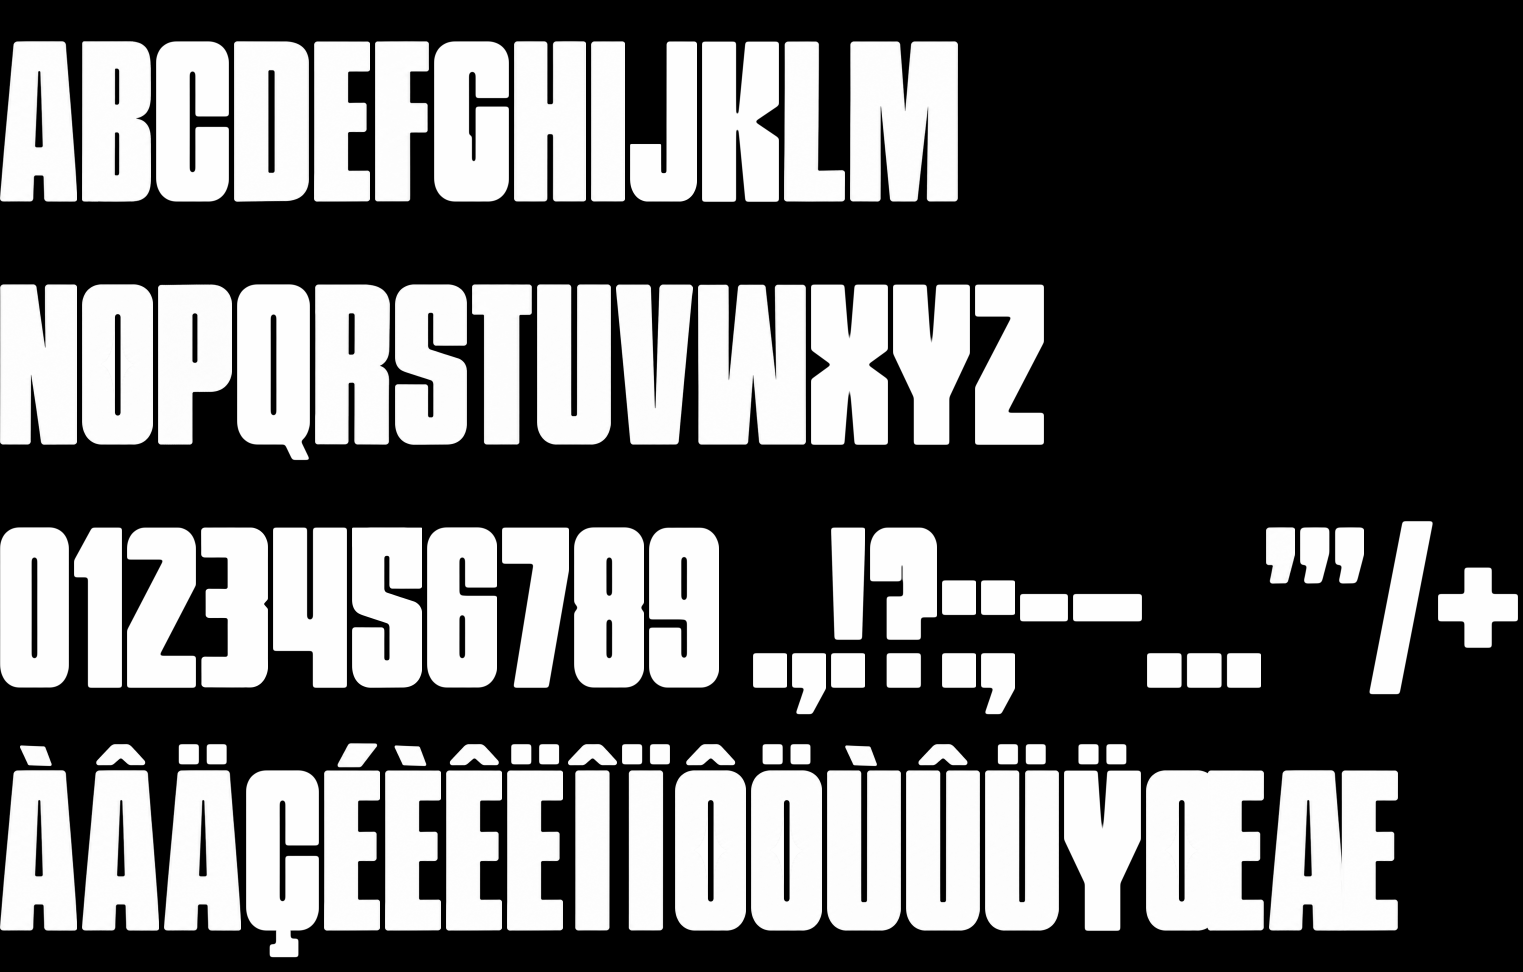
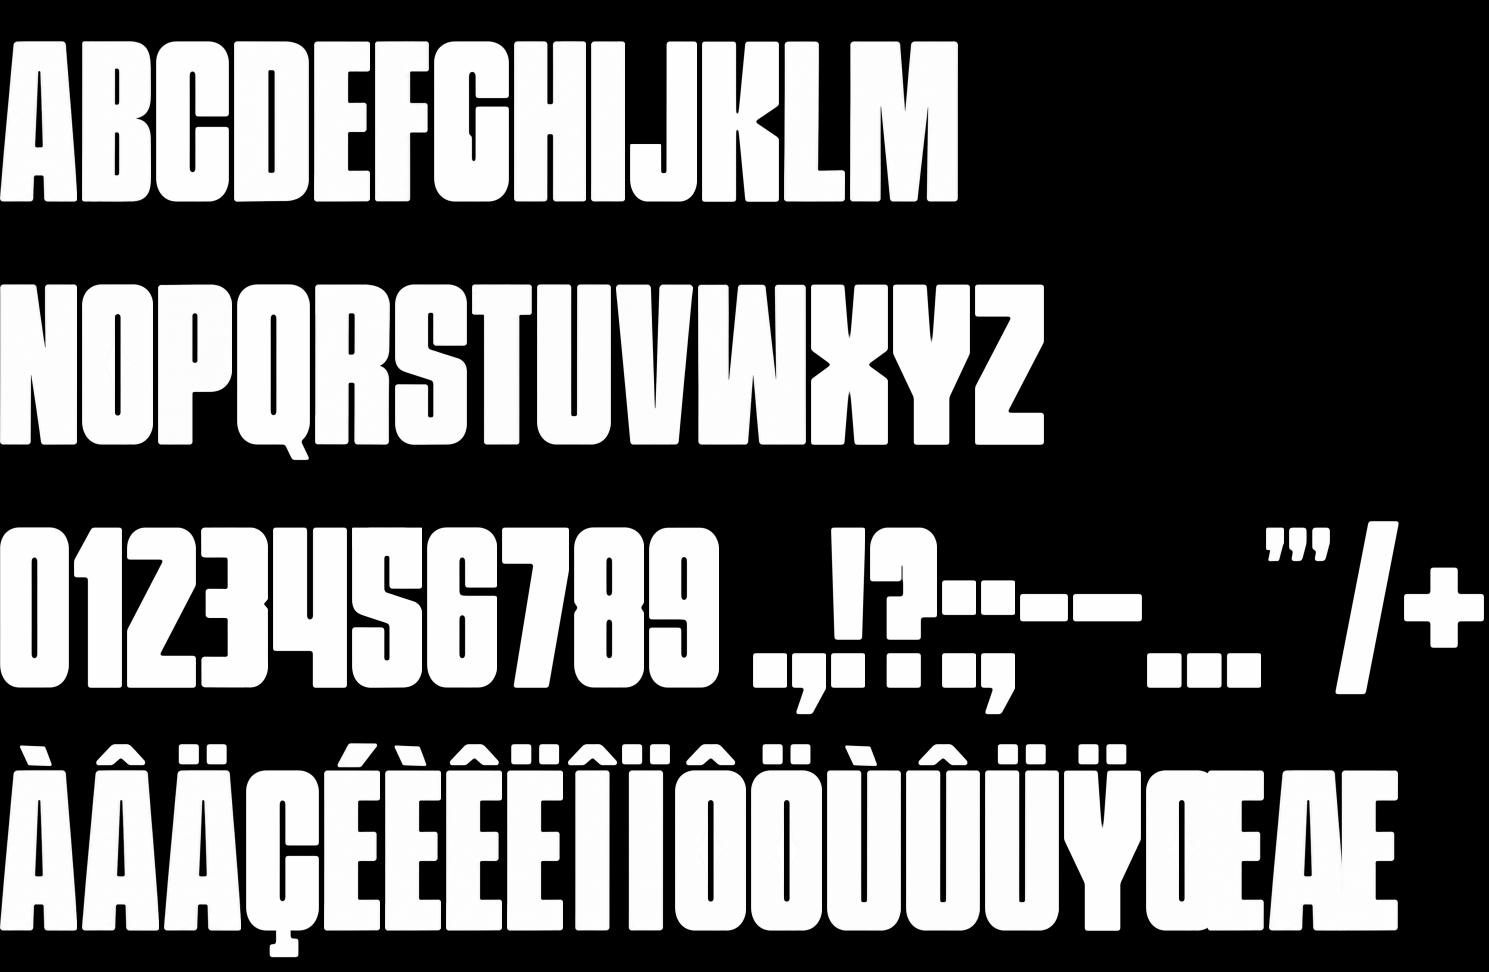
Atelier Étoile : apostrophe réduite et aérée
À sa taille d'origine, l'apostrophe serrait ses voisines (« D'OR », « C'EST »).
Elle passe à 60 %, reçoit du blanc de chaque côté, et son crénage est recalculé
d'après la forme des lettres : après un L elle se pose au-dessus du pied, au
milieu du vide laissé avec le A qui suit.

Claude-Session: https://claude.ai/code/session_01GywjEvaa8R1TER6H6G3R5p

diff --git a/miniatures/index.html b/miniatures/index.html
@@ -4,7 +4,7 @@
 <link rel="preconnect" href="https://fonts.gstatic.com" crossorigin>
 <link rel="stylesheet" href="https://fonts.googleapis.com/css2?family=Anton&family=Manrope:wght@400;500;600;700&family=JetBrains+Mono:wght@500&display=swap">
 <style>
[2 lines of base64/hex data omitted]
 /* Mise en page : un établi sombre. La scène 16:9 (la miniature) à gauche, l'établi de réglages à droite ;
    sur téléphone la scène reste collée en haut pendant qu'on règle en dessous. */
 :root {

diff --git a/miniatures/tools/build_font.py b/miniatures/tools/build_font.py
@@ -279,14 +279,17 @@ def all_glyphs():
 
 
 # ---------------------------------------------------------------- vectorisation et police
-def outline(img):
+SIDE = {"'": 16, '’': 16, '"': 16}     # blanc supplémentaire de chaque côté (px), pour que l'apostrophe respire
+
+
+def outline(img, side=0):
     """Contours de Bézier (unités de police, y vers le haut) d'une lettre en image."""
     b = cv2.GaussianBlur(img, (0, 0), 1.6) > .5
     ys, xs = np.where(b); x0 = xs.min()
     pl = potrace.Bitmap(~b).trace(  # la bibliothèque inverse : on lui donne le fond
         turdsize=30, turnpolicy=potrace.POTRACE_TURNPOLICY_MINORITY, alphamax=1.0, opticurve=True, opttolerance=.35)
     def P(p):
-        return ((p.x - x0) * UNITS + GAP / 2 * UNITS, (PAD + CAP - p.y) * UNITS)
+        return ((p.x - x0 + side) * UNITS + GAP / 2 * UNITS, (PAD + CAP - p.y) * UNITS)
     contours = []
     for c in pl:
         rec = RecordingPen(); rec.moveTo(P(c.start_point))
@@ -306,7 +309,7 @@ def outline(img):
         depth = sum(1 for r2, a2, p2 in contours if r2 is not rec and abs(a2) > abs(area) and cv2.pointPolygonTest(np.array(p2, np.float32), (float(px), float(py)), False) > 0)
         want_pos = depth % 2 == 0
         out.append((rec, (area > 0) != want_pos))
-    width = (xs.max() + 1 - x0 + GAP) * UNITS
+    width = (xs.max() + 1 - x0 + GAP + 2 * side) * UNITS
     return out, width
 
 
@@ -324,11 +327,11 @@ def build():
     for name in ('.notdef', 'space'):
         cs[name] = T2CharStringPen(metrics[name][0], None).getCharString()
     for ch in sorted(glyphs):
-        n = gname(ch); contours, width = outline(glyphs[ch])
+        n = gname(ch); contours, width = outline(glyphs[ch], SIDE.get(ch, 0))
         pen = T2CharStringPen(int(round(width)), None)
         for rec, rev in contours:
             rec.replay(ReverseContourPen(pen) if rev else pen)
-        cs[n] = pen.getCharString(); metrics[n] = (int(round(width)), int(round(GAP / 2 * UNITS)))
+        cs[n] = pen.getCharString(); metrics[n] = (int(round(width)), int(round((GAP / 2 + SIDE.get(ch, 0)) * UNITS)))
         order.append(n); cmap[ord(ch)] = n
         if ch.isalpha() and ch.lower() != ch and len(ch.lower()) == 1:
             cmap[ord(ch.lower())] = n          # les minuscules donnent les mêmes capitales
@@ -341,15 +344,23 @@ def build():
     fb.setupNameTable({'familyName': 'Atelier Etoile', 'styleName': 'Regular'})
     fb.setupOS2(sTypoAscender=asc, sTypoDescender=desc, usWinAscent=asc, usWinDescent=-desc, sCapHeight=700, sxHeight=700)
     fb.setupPost()
-    # crénage relevé sur « L'ANTIHÉROS » : l'apostrophe se loge au-dessus du pied du L et contre le haut du A
-    _, _, main, extra = G._seg('lantiheros')
-    k1 = int(round((extra[0]['x0'] - main[0]['x1'] - GAP) * UNITS)); k2 = int(round((main[1]['x0'] - extra[0]['x1'] - GAP) * UNITS))
+    # crénage de l'apostrophe : après un L, elle se pose au-dessus du pied, au milieu du vide entre le fût du L
+    # et le flanc incliné du A qui suit ; devant un A, la lettre se rapproche (son haut est en retrait)
+    ink = lambda g: np.where((g > .5).any(0))[0]
+    row = lambda g, y: np.where(g[PAD + y] > .5)[0]
+    L, A, Q = glyphs['L'], glyphs['A'], glyphs["'"]
+    wl, wq, side = ink(L).max() + 1, ink(Q).max() + 1, SIDE["'"]
+    stem = row(L, 300).max() + 1                       # bord droit du fût du L
+    a_in = row(A, int(np.where((Q > .5).any(1))[0].max() - PAD) // 2).min()   # retrait du A à mi-hauteur de l'apostrophe
+    q0 = (stem + wl + GAP + a_in) / 2 - wq / 2         # position de l'apostrophe, depuis le bord gauche du L
+    k1 = int(round((q0 - (wl + GAP + side)) * UNITS))
+    k2 = int(round(((wl + GAP) - (q0 + wq) - GAP - side) * UNITS))
     fea = 'languagesystem DFLT dflt; languagesystem latn dflt;\nfeature kern {\n'
     for q in ('quotesingle', 'quoteright'):
-        fea += f'  pos L {q} {k1};\n  pos {q} [A uni00C0 uni00C2 uni00C4] {k2};\n'
+        fea += f'  pos L {q} {k1};\n  pos {q} [A uni00C0 uni00C2 uni00C4 uni00C6] {k2};\n'
     fea += '} kern;\n'
     addOpenTypeFeaturesFromString(fb.font, fea)
-    print('crénage L-apostrophe', k1, 'apostrophe-A', k2)
+    print('crénage L-apostrophe', k1, 'apostrophe-A', k2, '| apostrophe', wq, 'px de large pour 1000 de capitale')
     os.makedirs(OUT, exist_ok=True)
     fb.save(os.path.join(OUT, 'AtelierEtoile.otf'))
     fb.font.flavor = 'woff2'; fb.font.save(os.path.join(OUT, 'AtelierEtoile.woff2'))

diff --git a/miniatures/tools/font_glyphs.py b/miniatures/tools/font_glyphs.py
@@ -123,13 +123,22 @@ def traced_mark(kind):
     return out, (s['x0'] + s['x1']) / 2 - (c['x0'] + c['x1']) / 2
 
 
-def traced_apostrophe():
+APOSTROPHE = .6     # l'apostrophe de la planche, réduite : à sa taille d'origine elle serre trop ses voisines
+
+
+def traced_apostrophe(scale=APOSTROPHE):
     img, lab, main, extra = _seg('lantiheros')
     s = extra[0]
     out = canvas(s['x1'] - s['x0'])
     m = (lab[:, s['x0']:s['x1']] == s['i'])
     out[:] = np.where(ndi.binary_dilation(m, iterations=3), img[:, s['x0']:s['x1']], 0)
-    return out
+    if scale == 1:
+        return out
+    ys = np.where(out > .5)[0]
+    small = cv2.resize(out[PAD:ys.max() + 6], None, fx=scale, fy=scale, interpolation=cv2.INTER_AREA)
+    o = canvas(small.shape[1])
+    o[PAD:PAD + small.shape[0]] = small          # le haut reste aligné sur le haut des capitales
+    return o
 
 
 # ---------------------------------------------------------------- outils de construction

diff --git a/miniatures/README.md b/miniatures/README.md
@@ -51,7 +51,8 @@ blocs très lourds, fentes fines à bouts ronds, encoches, petits angles arrondi
   les accents aigu, grave et circonflexe, l'apostrophe ;
 - **lettres construites** avec le même vocabulaire : C G J K Q W X Y Z, les chiffres, la ponctuation, le tréma,
   la cédille, Œ et Æ (le G reprend celui de la miniature « MENSONGE ») ;
-- crénage « L' » et « 'A » relevé sur « L'ANTIHÉROS ».
+- l'apostrophe est celle de la planche réduite à 60 %, avec du blanc de chaque côté ; après un L elle se pose
+  au-dessus du pied, et le A qui suit se rapproche.
 
 Le rendu suit les planches :
 
